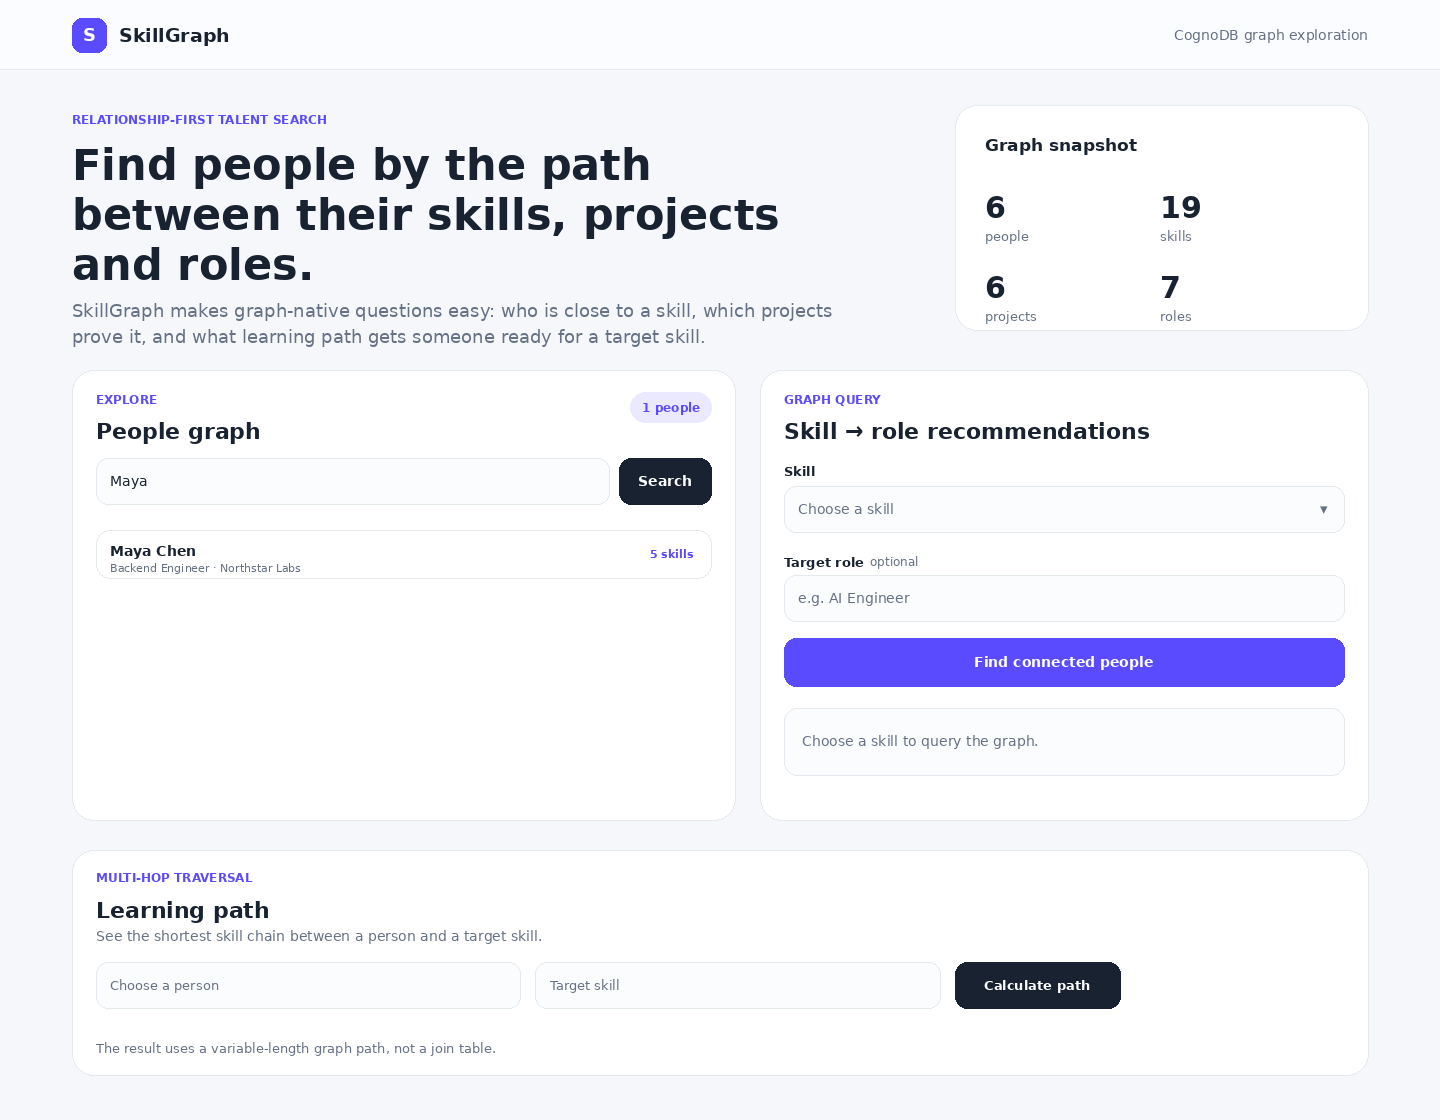
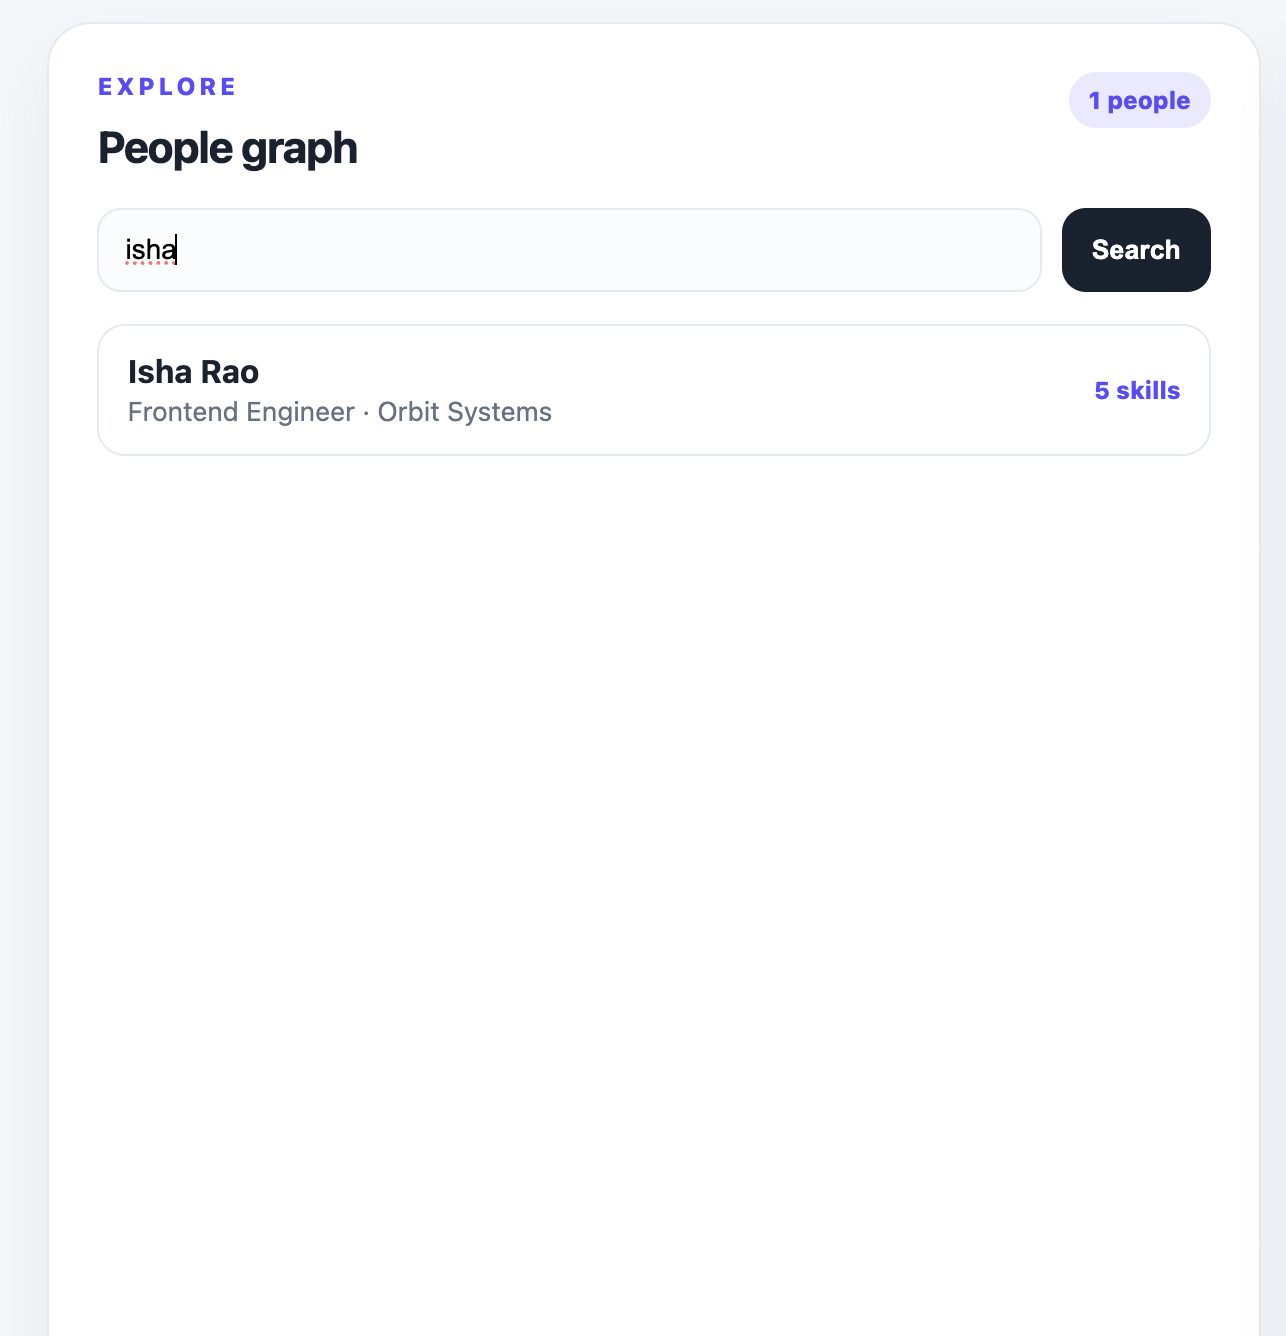
Update README with current application screenshots

diff --git a/README.md b/README.md
@@ -121,33 +121,33 @@ Set `COGNODB_URI`, `COGNODB_USER=cognodb`, and `COGNODB_PASSWORD` as Vercel envi
 
 ## Screenshots
 
-The following walkthrough images use the production UI structure and the verified live CognoDB data returned by the hosted application.
+The screenshots below are current captures from the deployed SkillGraph application connected to the live CognoDB dataset.
 
 ### 1. Graph overview
 
-The dashboard summarizes the connected dataset and exposes the main exploration flows for people, recommendations, and multi-hop traversal.
+The dashboard summarizes the live graph with **6 people, 19 skills, 6 projects, and 7 roles**, and exposes the people-search, recommendation, and multi-hop traversal flows.
 
 ![SkillGraph dashboard](docs/images/01-dashboard.png)
 
-### 2. People exploration
+### 2. People search
 
-Users can search the people graph by person or role to narrow the connected talent set.
+Searching for **Isha** narrows the people graph to **Isha Rao**, a Frontend Engineer at Orbit Systems with 5 connected skills. This demonstrates that the people search now filters the graph-backed result set correctly.
 
-![People search](docs/images/02-people-search.png)
+![People search for Isha Rao](docs/images/02-people-search.png)
 
-### 3. Graph-native recommendations
+### 3. Skill recommendations with project evidence
 
-Selecting **Python** returns connected people together with supporting project evidence, demonstrating traversal across skills, people, projects, roles, and companies.
+Selecting **React** returns connected candidates and explains the evidence behind each result. Arjun Mehta is supported by **FlowForge**, while Isha Rao is supported by **Insight Grid**. Because no target role is supplied in this screenshot, the percentage shown is the graph-connectivity score rather than a target-role-fit score.
 
-![Python recommendations](docs/images/03-python-recommendations.png)
+![React skill recommendations with project evidence](docs/images/03-react-recommendations.png)
 
 ### 4. Multi-hop relationship traversal
 
-The shortest-path flow demonstrates a graph-native 3-hop traversal:
+The relationship-path flow demonstrates a graph-native 3-hop traversal across multiple node and relationship types:
 
-`Maya Chen → Python → Isha Rao → D3.js`
+`Isha Rao → TypeScript → Arjun Mehta → OpenAI API`
 
-![Relationship path](docs/images/04-learning-path.png)
+![Three-hop relationship path](docs/images/04-relationship-path.png)
 
 ## Short demo recording
 
